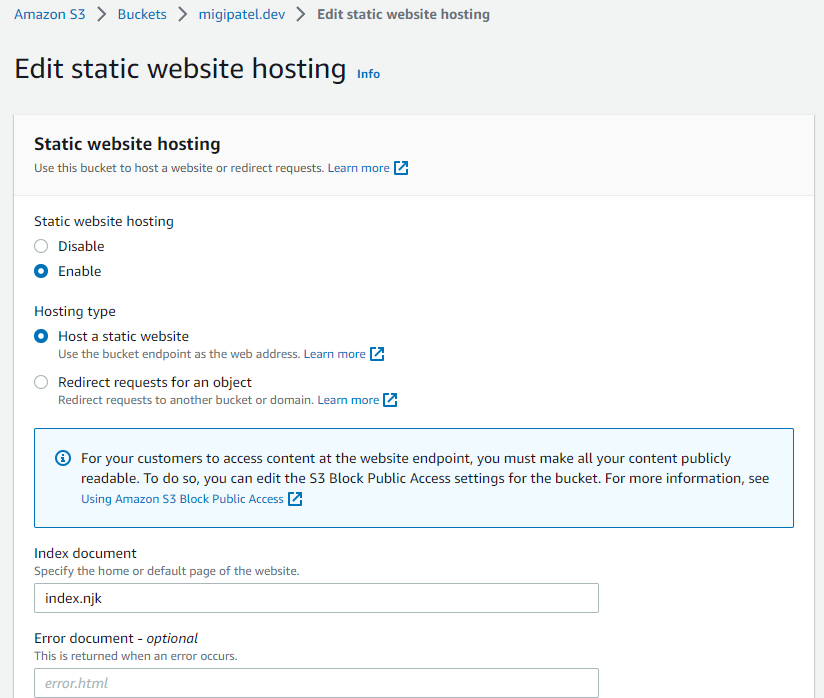
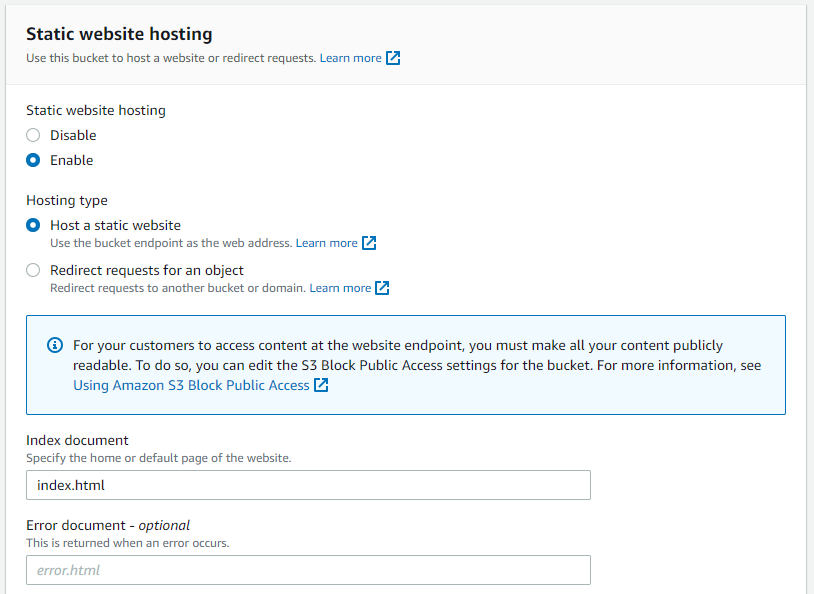
full post but will be improved later.

Changed region(s): [[0.0, 0.1515, 1.0, 1.0], [0.0, 0.0, 0.6143, 0.1212]]

diff --git a/posts/firstpost.md b/posts/firstpost.md
@@ -7,13 +7,13 @@ tags:
   - CI/CD
 layout: layouts/post.njk
 ---
-Welcome to my first blog post where I share how I created my first website and deployed it using AWS! I have been wanting to make a website for a while but I was overwhelmed with options and it was lower on my priority list. But then while studying for the AWS Solutions Architect Certification exam I came upon a lecture on how to use Amazon S3 to host static websites. This then became the perfect project to learn more about AWS while also doing something creative.
+Welcome to my first blog post where I share how I created my website and deployed it using AWS! I have been wanting to make a website for a while but I was overwhelmed with options and it was lower on my priority list. But then while studying for the AWS Solutions Architect Certification exam I came upon a lecture on how to use Amazon S3 to host static websites. This then became the perfect project to learn more about AWS while also doing something creative.
 
-<br>I knew how I wanted to host my website but then I wasnt sure where to start with the code. I knew some CSS and HTML but I didnt want to start completely from scratch. After doing some research I came upon Eleventy and saw some really cool websites created using this static site generator and I was sold! Elventy also provided a basic template that allowed me to focus on first just getting my website pipeline going and then eventually I would slowly adapt the template to make it my own.
+<br>I knew how I wanted to host my website but then I wasnt sure where to start with the code. I knew some CSS and HTML but I didnt want to start completely from scratch. After doing some research I came upon Eleventy and saw some really cool websites created using this static site generator and I was sold! Elventy also provided a basic template that allowed me to focus on first just getting my website pipeline going and then eventually I could slowly adapt the template to make it my own.
 
 <br>Here is an overview of the applications I used:
 * <strong>Eleventy</strong>: The static site generator I used to build my website.
-* <strong>Github</strong>: In addition to storing the website code, I also created a development pipeline using Github Actions.
+* <strong>Github</strong>: In addition to storing the website code, I also created a development pipeline using Github Workflows.
 * <strong>Google Domains</strong>: A domain name registrar operated by Google. This is where I registered the domain name for the website (eg. migipatel.dev). I used this instead of using Amazons Route 53 because I wanted a website with the .dev ending which they did not offer.
 * <strong>Amazon Web Services (AWS)</strong>: Used to host the website.
 
@@ -68,26 +68,79 @@ You will need an AWS account for this part. You can sign up for the free tier he
 ### Part 1: Register your domain name with Google Domain
 In this step feel free to research different platforms to register your domain name. I chose Google Domains because I wanted a .dev website which was not available through AWS. So you can search for free domain names and buy one from [Google Domains](https://www.domains.google). It will warn you about the SSL certificate but just ignore that for now because we will handle it later through AWS.
 
-### Part 2: Create a bucket on Amazon S3 (FURTHER INSTRUCTIONS IN PROGRESS)
+### Part 2: Create a bucket on Amazon S3
 Now you will need to enter your AWS account console and set up an S3 Bucket.
-1. Log into you AWS account
-2. Search for S3
+1. Log into you AWS account.
+2. Search for S3.
 3. Start creating the S3 bucket by selecting <strong>Create Bucket</strong>.
 <br><img src = "/img/createWebsitePost/createS3Bucket.png" /> <br>
 4. Name your bucket the name of your website.
 <br><img src = "/img/createWebsitePost/nameBucket.png" /> <br>
+5. Turn off <strong>Block all public access</strong>.
+<br><img src = "/img/createWebsitePost/blockPublicAccess.png" /> <br>
+6. Ignore all other settings and create the bucket!
+7. On the main S3 page you should now see your newly created bucket listed under <strong>Buckets</strong>. Click on it and go to <strong>Properties</strong>.
+8. Scroll down to <strong>Static Website Hosting</strong> and enable.
+<img src = "/img/createWebsitePost/enableStaticWebsiteHosting.png" /> <br>
+9. Specify the index document as index.html and save changes.
 <img src = "/img/createWebsitePost/editStaticHostingWebsite.png" /> <br>
-<img src = "/img/createWebsitePost/editBucketPolicy.png" /> <br>
+10. Go to <strong>Permissions</strong> and edit your bucket policy. Paste the following code but replace the resource entry with your bucket name in place of migipatel.dev:
+```diff-js
+{
+    "Version": "2012-10-17",
+    "Statement": [
+        {
+            "Sid": "PublicReadGetObject",
+            "Effect": "Allow",
+            "Principal": "*",
+            "Action": "s3:GetObject",
+            "Resource": "arn:aws:s3:::migipatel.dev/*"
+        }
+    ]
+}
+```
+11. Save changes and go back to <strong>Properties</strong>. Scroll back down to <strong>Static website hosting</strong> and copy the Bucket website endpoint. We will use that in the next section.
+### Part 3: Setting up the DNS 
+1. Go back to Google Domains and go to <strong>My Domains</strong>.
+2. Find your domain and select <strong>Manage</strong>.
+<img src = "/img/createWebsitePost/manageDomains.png" /> <br>
+3. In the left bar select <strong>DNS</strong>.
+4. Under <strong>Custom records</strong> select <strong>Manage custom records</strong> and make the following changes:
+* Host name: www
+* Type: CNAME
+* TTL: 60
+* Data: Paste your Bucket website endpoint from earlier but remove http://
+5. Go down to <strong>Domain forward</strong> and select <strong>Manage</strong>.
+6. Select Edit forwarding and set up your website to forward the URL without http://wwww as follows:
+<img src = "/img/createWebsitePost/websiteForwarding.png" /> <br>
 
-### Part 3: Setting up the SSL Certificate
-Go back to the AWS console and search for Certificate Manager. Click <strong> Request a Certificate </strong>
+### Part 4: Setting up the SSL Certificate
+1. Go back to the AWS console and search for <strong>Certificate Manager</strong>. Click <strong> Request a Certificate </strong>.
+2. <strong>Request a public certificate</strong> and click next.
+3. Enter domain names as follows:
+<img src = "/img/createWebsitePost/requestPublicCertificate.png" /> <br>
+4. Select <strong>Email validation</strong> and <strong>click Request</strong>.
+<img src = "/img/createWebsitePost/emailValidation.png" /> <br>
+5. Now your request should be pending validation. Go check your email that you had used to register with your domain on Google Domains and approve the request for your www and non www website.
+6. Go back to your list of certificates and select the associate certificate ID. Scroll down to Domains and the Status should appear as green for all the domains.
+<img src = "/img/createWebsitePost/approvedDomains.png" /> <br>
+7. Now that we have the certificate, we can use AWS Cloudfront to tell our site to use that certificate. Go back to Cloudfront and click <strong>Create a Cloudfront Distribution</strong>.
+8. Under Origin enter you domain. IMPORTANT: Do not use the domain from the dropdown. Go back to the S3 and copy the address from before. Mine was http://migipatel.dev.s3-website-us-east-1.amazonaws.com.
+9. Under Default cache behavior go to Viewer protocol policy and select Redirect HTTP to HTTPS.
+<img src = "/img/createWebsitePost/defaultCacheBehavior.png" /> <br>
+10. Under Settings add your domain names with and without www and then select the SSL certificate that we just created using Amazon Certificate Manager.
+11. Click <strong>Create Distribution</strong>.
+12. Go back to your list of distributions and it should tell you that your status is Enabled. 
+13. Copy the Domain name and go back to Google Domains.
+14. Go to DNS -> Manage custom records and replace the data entry with the domain name.
+15. Save and now you should be able to visit your website and see a little lock by it!
 
-### Part 4: Set up AWS Cloudfront 
-Now that we have the certificate, we can use AWS Cloudfront to tell our site to use that certificate.
+<br>There won't be much on your website yet since we haven't connected it to our Github yet but we are almost there!!!
 
-### Part 5: Create a Code Pipeline
+## Create a Code Pipeline
+Okay so now all that is left is to create the Github workflow to automatically push updates to your S3 bucket. For this part I referenced this by Monica Granbois: [How to deploy a 11ty static website from GitHub to AWS - S3](https://www.youtube.com/watch?v=h-iowIY4DCU).
 
-### Review of Billing
+<br><strong>And with that, you should be all done! You know have a template website that you can modify to make your own</strong>.
 
 
 
